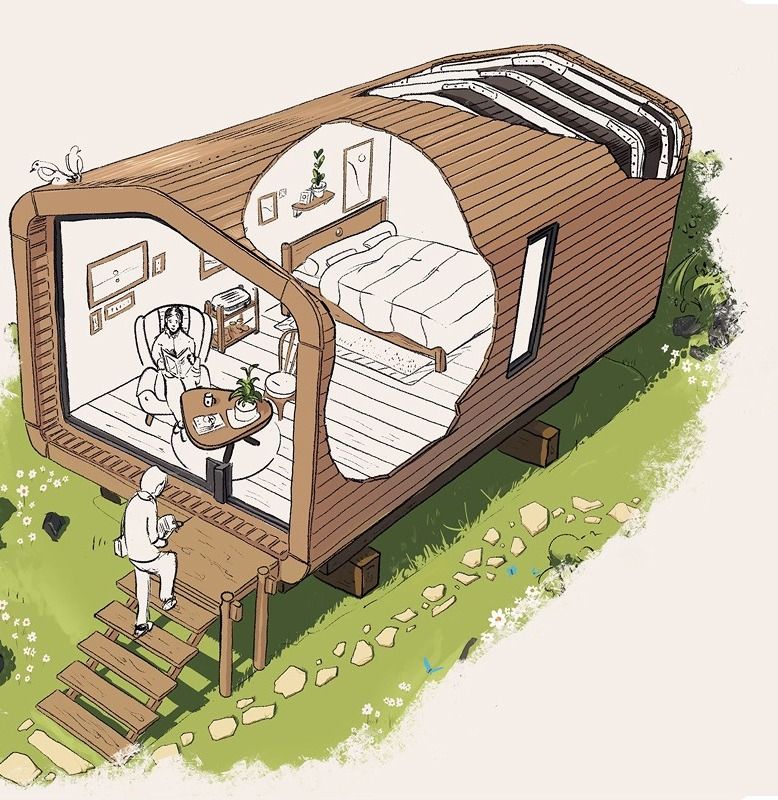
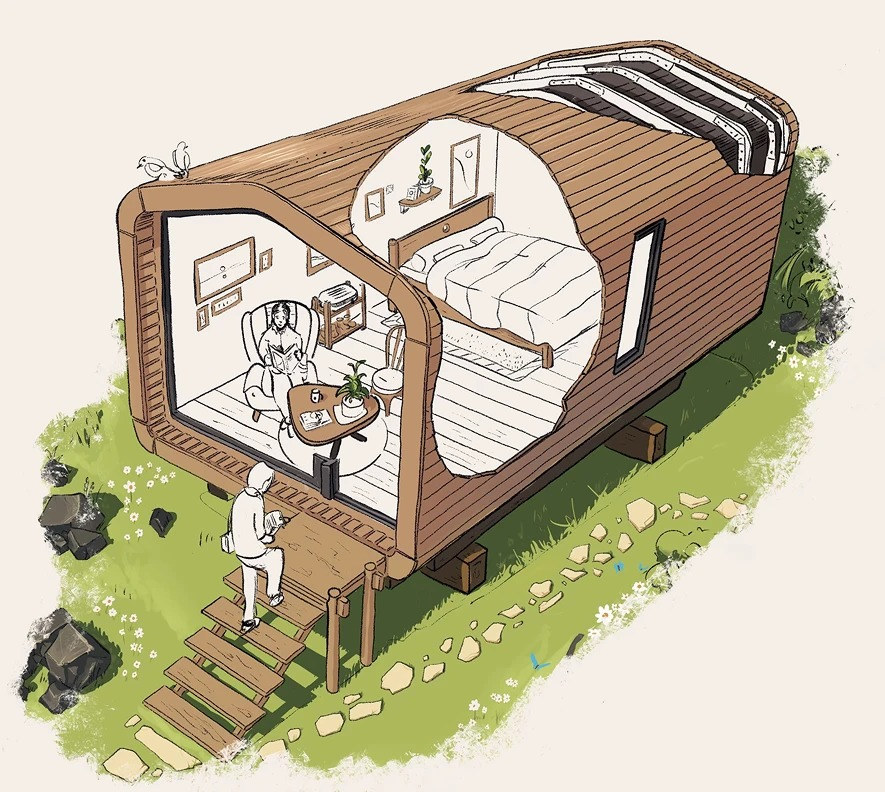
Turn Home's Mô Dulo Studio section into a 2-card horizontal carousel
Add the Mô Dulo Burô card (dark background, own illustration and
copy) alongside Studio, scrolling horizontally as large cards rather
than a single static block. Also swap in the cleaner uncropped studio
illustration provided directly (no more text baked into the export).

Claude-Session: https://claude.ai/code/session_016uHhQj4ShpTEGtXJodtYur

diff --git a/index.html b/index.html
@@ -55,25 +55,45 @@
   </div>
 
   <section class="studio">
-    <div class="studio__card">
-      <div class="studio__content">
-        <h2>Mô Dulo Studio</h2>
-        <p>
-          Seul, à deux ou en famille, le Mô Dulo Studio tisse un lien unique avec la nature.
-          <br><br>
-          Véritable alcôve de confort, il vous accueille en toute saison. Depuis la chambre, la salle de bain ou le salon équipé d'une kitchenette, profitez d'une vue dégagée sur les alentours, pour une immersion totale dans le paysage.
-          <br><br>
-          Parfait pour :
-        </p>
-        <ul class="studio__list">
-          <li>Un studio indépendant</li>
-          <li>Une extension</li>
-          <li>Un espace de bien être</li>
-          <li>Une location</li>
-        </ul>
+    <div class="studio__track">
+      <div class="studio__card">
+        <div class="studio__content">
+          <h2>Mô Dulo Studio</h2>
+          <p>
+            Seul, à deux ou en famille, le Mô Dulo Studio tisse un lien unique avec la nature.
+            <br><br>
+            Véritable alcôve de confort, il vous accueille en toute saison. Depuis la chambre, la salle de bain ou le salon équipé d'une kitchenette, profitez d'une vue dégagée sur les alentours, pour une immersion totale dans le paysage.
+            <br><br>
+            Parfait pour :
+          </p>
+          <ul class="studio__list">
+            <li>Un studio indépendant</li>
+            <li>Une extension</li>
+            <li>Un espace de bien être</li>
+            <li>Une location</li>
+          </ul>
+        </div>
+        <div class="studio__image">
+          <img src="assets/img/studio-illustration.jpg" alt="Coupe illustrée du Mô Dulo Studio">
+        </div>
       </div>
-      <div class="studio__image">
-        <img src="assets/img/studio-illustration.jpg" alt="Coupe illustrée du Mô Dulo Studio">
+
+      <div class="studio__card studio__card--dark">
+        <div class="studio__content">
+          <h2>Mô Dulo Burô</h2>
+          <p>
+            Môdulo Burô est un module calme et lumineux, conçu pour offrir un cadre de travail propice à la concentration et à l'accueil. Il peut être aménagé pour recevoir des clients, organiser des réunions ou s'adapter aux besoins des praticiens et professions libérales.
+            <br><br>
+            L'accès est personnalisable, avec la possibilité d'une rampe PMR en remplacement de l'escalier.
+            <br><br>
+            Installé chez soi ou sur une zone d'activité, il convient aussi bien aux indépendants qu'aux collectivités ou aux investisseurs souhaitant proposer des espaces de location professionnels.
+            <br><br>
+            Son isolation acoustique et ses ouvertures généreuses créent un environnement apaisant, idéal pour travailler autrement.
+          </p>
+        </div>
+        <div class="studio__image">
+          <img src="assets/img/buro-illustration.jpg" alt="Coupe illustrée du Mô Dulo Burô">
+        </div>
       </div>
     </div>
   </section>

diff --git a/assets/css/styles.css b/assets/css/styles.css
@@ -208,7 +208,18 @@ img {
   margin: 0 auto;
 }
 
+.studio__track {
+  display: flex;
+  gap: 24px;
+  overflow-x: auto;
+  scroll-snap-type: x mandatory;
+  -webkit-overflow-scrolling: touch;
+  padding-bottom: 8px;
+}
+
 .studio__card {
+  flex: 0 0 min(1100px, 92vw);
+  scroll-snap-align: start;
   background: var(--color-card);
   border-radius: 11px;
   display: flex;
@@ -216,6 +227,15 @@ img {
   align-items: stretch;
   overflow: hidden;
   gap: 40px;
+}
+
+.studio__card--dark {
+  background: #363b30;
+  color: #ffffff;
+}
+
+.studio__card--dark .studio__list li {
+  border-bottom-color: #ffffff;
 }
 
 .studio__content {
